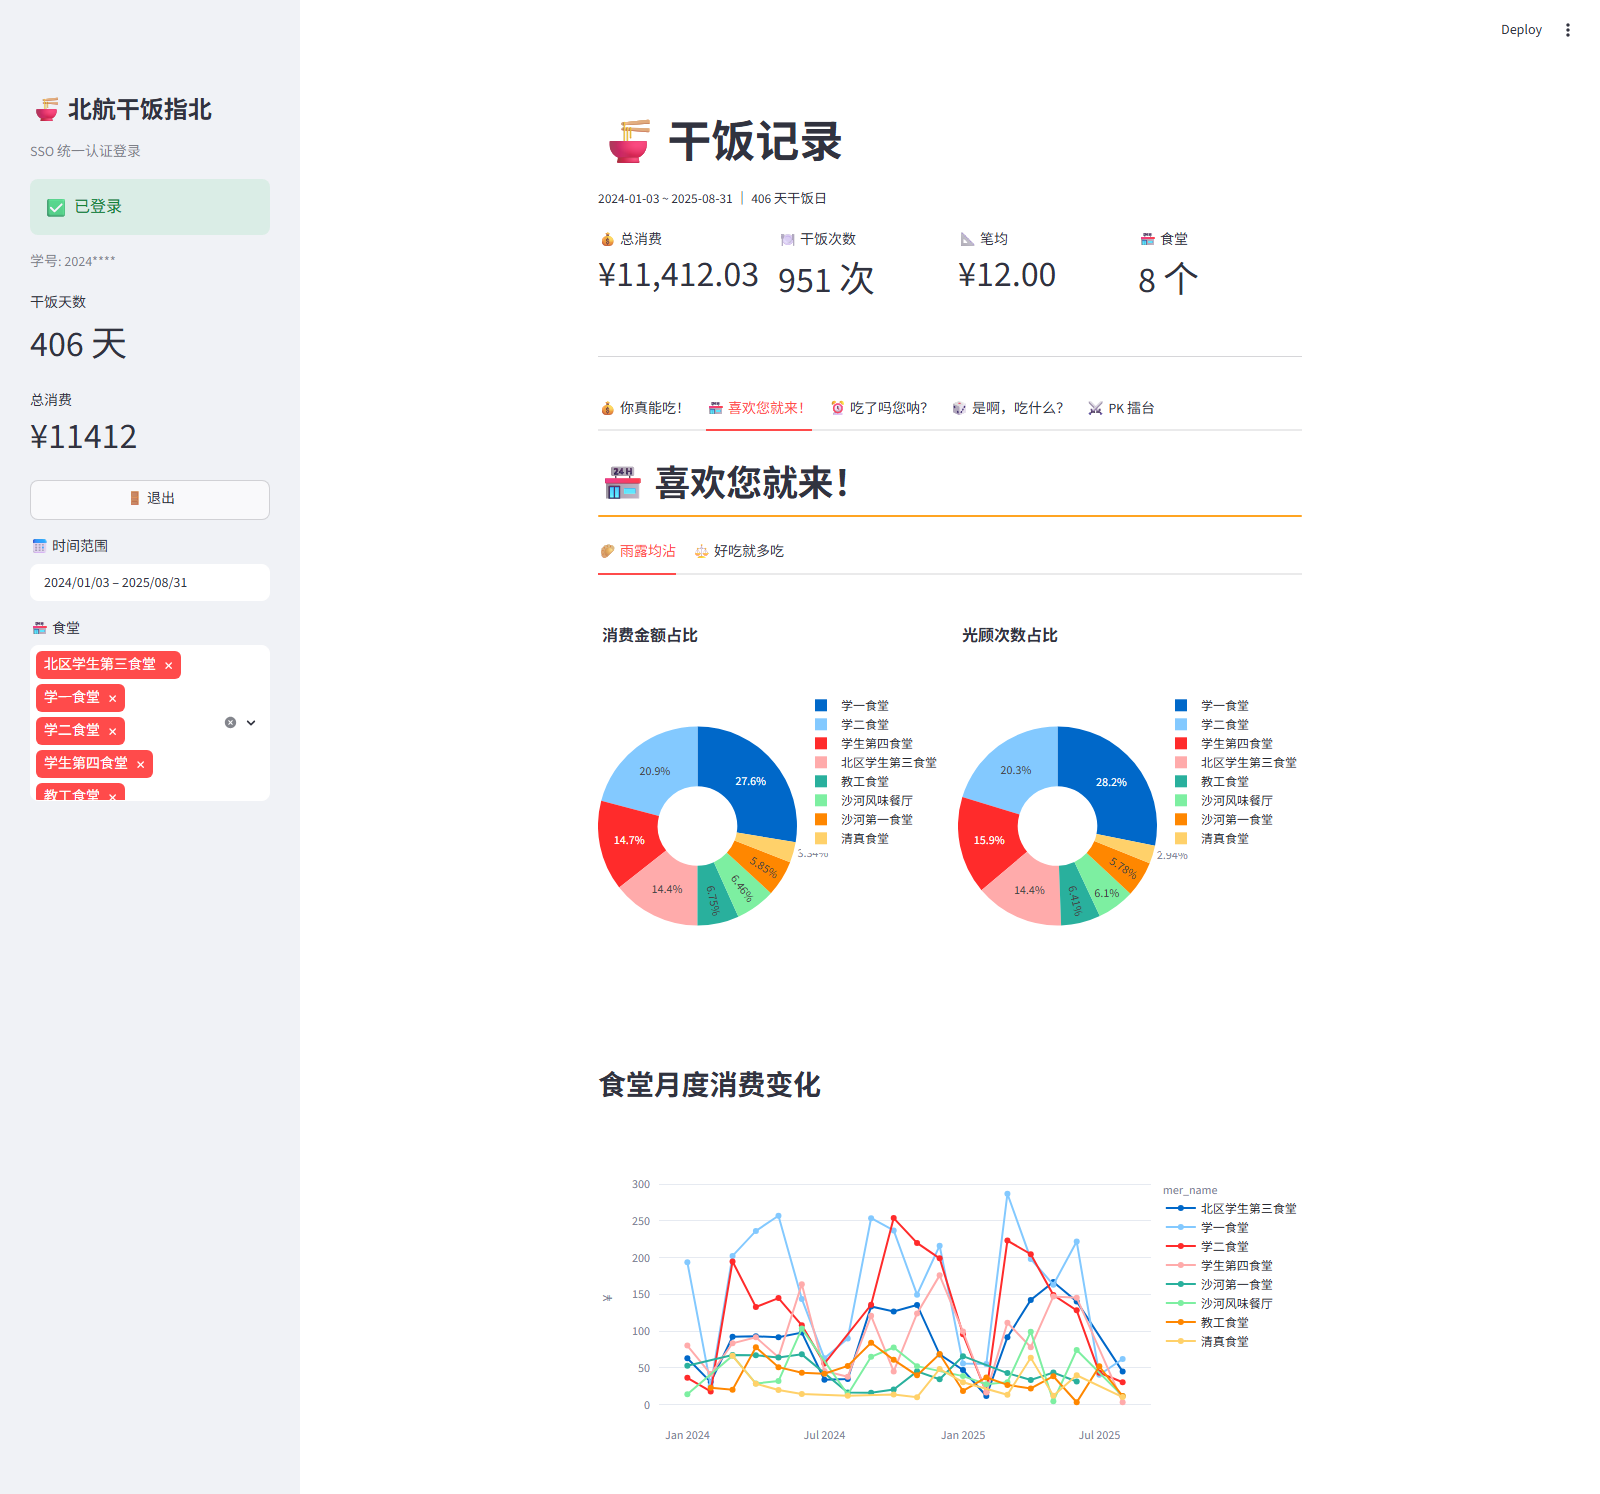
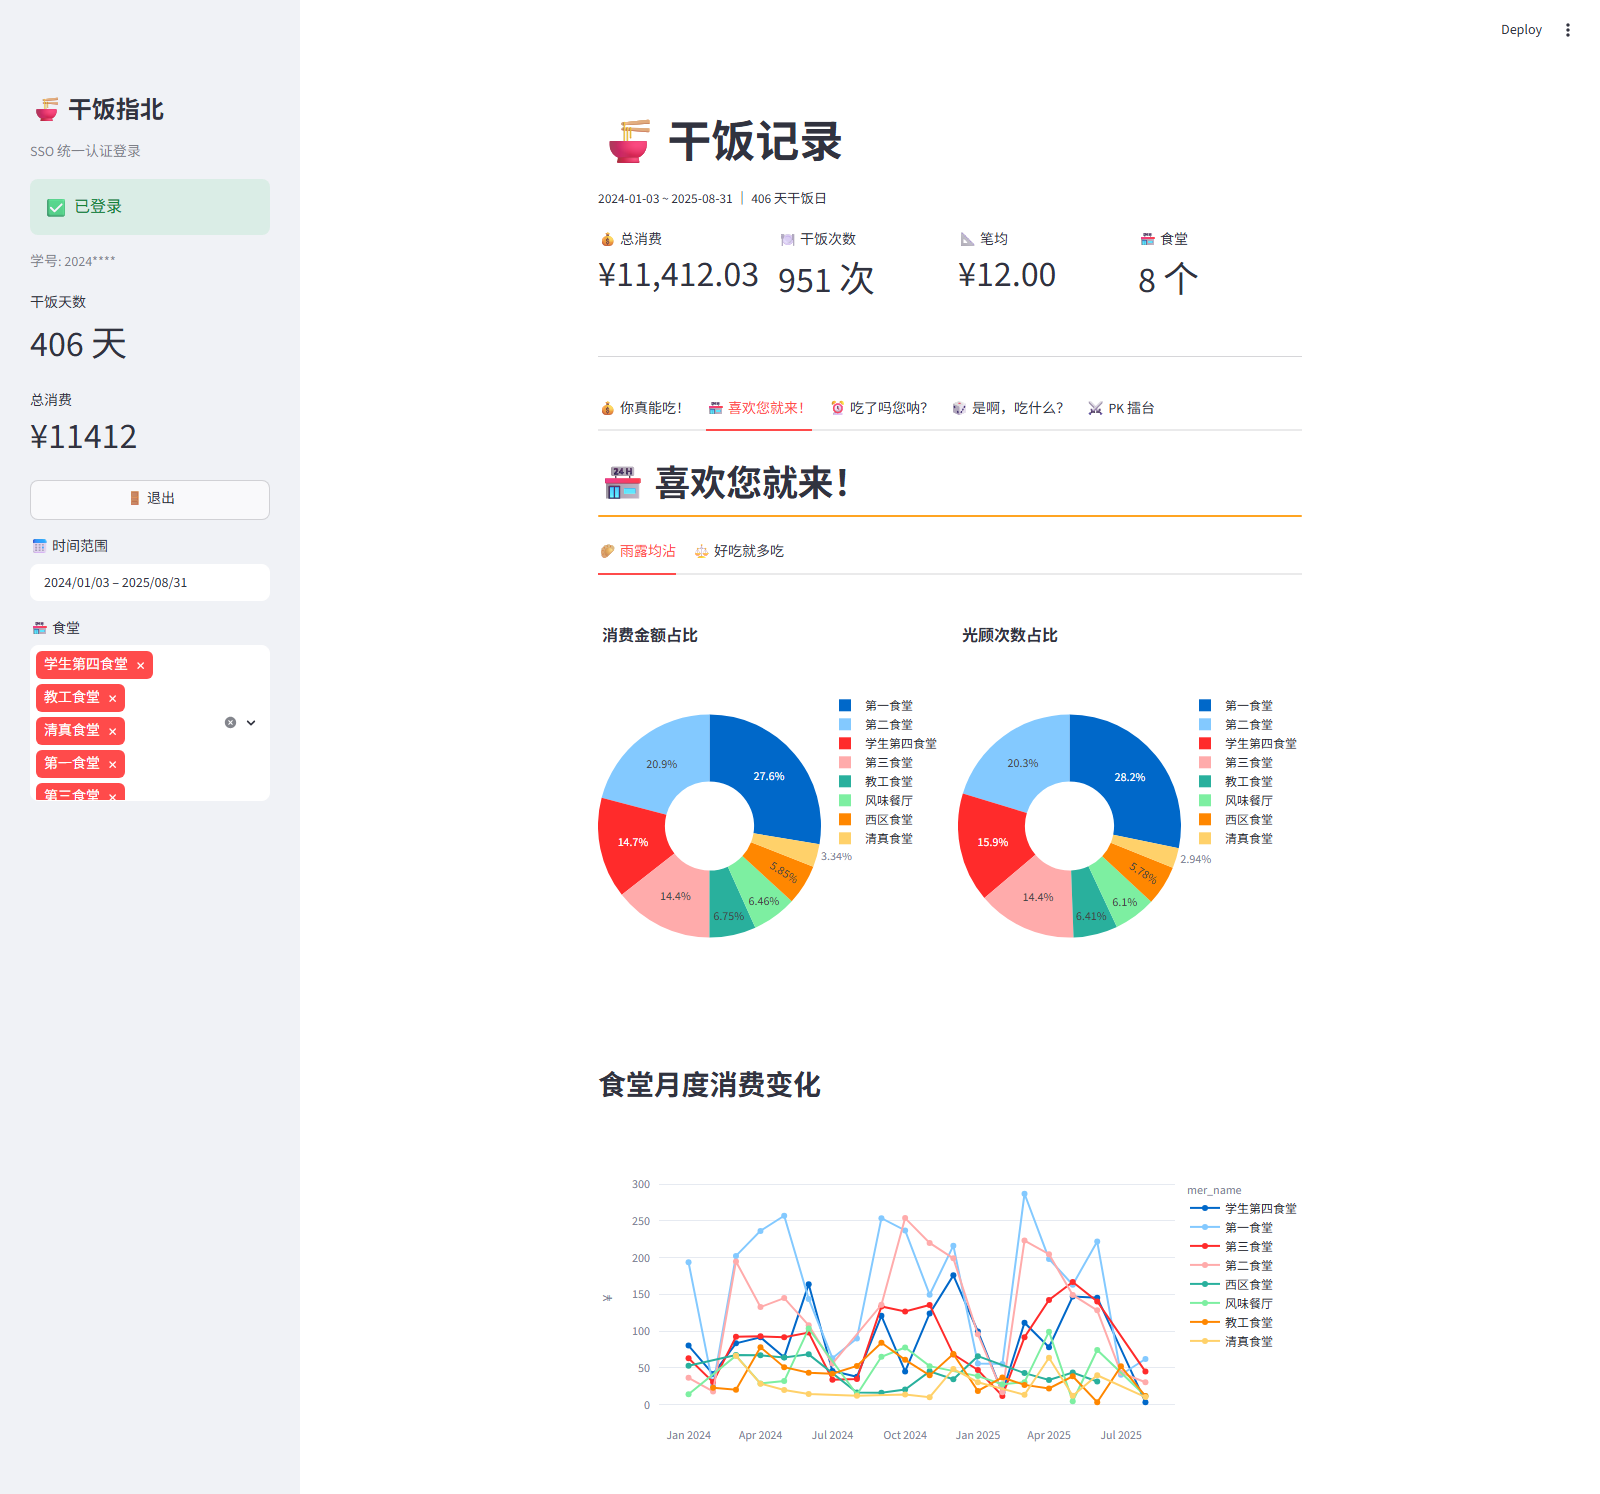
refactor: 更名 Dining Trace 并去除校名，补充首次使用提示
对外去校名
- 项目对外名称统一为 Dining Trace（干饭指北）
- README / 界面标题 / 页脚 / LICENSE 中的校名全部替换为
  「校园统一认证」「校园卡平台」等中性说法
- sso_login.py 改为通用 CAS 实现：SSO 端点抽到 config.py
  （SSO_BASE / SSO_SERVICE_URL），换学校只改配置不动代码
- 测试与演示数据里的食堂名改为通用的第一~第四食堂 / 风味餐厅等

首次使用提示（同学最容易误判为「程序坏了」的两点）
- README 新增「给第一次使用的你」表格：首次运行会自动 pip install
  数十 MB（1~3 分钟）、首次登录要翻页拉全量历史（可能超过 1 分钟）
- start.bat 重写：依赖检测、安装耗时提示、失败自动换清华源重试、
  运行阶段打印两条慢速提示；全 ASCII 文案避免 .bat 中文乱码
- app.py 登录页与侧边栏加入「首次登录可能需要 1 分钟以上」提示
- README 常见问题补充「卡在 Downloading」「登录转圈」两条

截图
- 4 张截图用合成数据重新渲染（新标题、通用食堂名、学号 2024****）
- 隐私校验通过：页面中 5 位以上数字串只有 11412 / 14267 两个金额

测试
- tools/smoke_test.py 与 tools/app_smoke_test.py 全绿（4 种状态）

diff --git a/app.py b/app.py
@@ -1,5 +1,5 @@
 """
-北航食堂消费记录 - 可视化面板
+Dining Trace 干饭指北 - 校园卡食堂消费可视化面板
 启动: streamlit run app.py
 """
 
@@ -13,7 +13,7 @@ from datetime import datetime, date
 from scraper.database import get_connection, init_db, get_statistics
 
 # ── 页面配置 ──
-st.set_page_config(page_title="北航干饭指北", page_icon="🍜", layout="wide")
+st.set_page_config(page_title="Dining Trace 干饭指北", page_icon="🍜", layout="wide")
 
 
 # ── Session 状态 ──
@@ -82,7 +82,7 @@ def sso_login(stu_no, password):
 
 # ── 侧边栏：登录 ──
 def sidebar_login():
-    st.sidebar.title("🍜 北航干饭指北")
+    st.sidebar.title("🍜 干饭指北")
     st.sidebar.caption("SSO 统一认证登录")
 
     if not st.session_state.logged_in:
@@ -91,6 +91,7 @@ def sidebar_login():
         stu = st.sidebar.text_input("学号", key="login_stu", placeholder="请输入学号")
         pwd = st.sidebar.text_input("密码", type="password", key="login_pwd",
                                      placeholder="统一认证密码")
+        st.sidebar.caption("⏳ 首次登录需拉取全部历史记录，可能需要 1 分钟以上")
         if st.sidebar.button("🚀 登录", type="primary", use_container_width=True):
             if stu and pwd:
                 res = sso_login(stu, pwd)
@@ -440,10 +441,10 @@ def main():
     logged_in, df = sidebar_login()
 
     if not logged_in or df is None:
-        st.title("🍜 北航干饭指北")
+        st.title("🍜 干饭指北")
         st.markdown("""
         ### 👈 请在左侧登录
-        使用 **北航统一认证** 学号和密码登录，即可查看你的食堂消费数据。
+        使用**校园统一认证**的学号和密码登录，即可查看你的食堂消费数据。
 
         ---
         **功能一览:**
@@ -452,6 +453,11 @@ def main():
         - ⏰ **吃了吗您呐？** — 用餐时间规律
         - 🎲 **是啊，吃什么？** — 随机食堂抽签
         - ⚔ **PK 擂台** — 和室友比一比谁是干饭王
+
+        ---
+        ⏳ **第一次登录会比较慢**：要完成统一认证并翻页拉取你的全部历史流水，
+        通常几十秒，高峰时段**可能需要 1 分钟以上**，请耐心等待，不要反复点击登录。
+        之后每次只需增量补充新记录，会快很多。
         """)
         return
 
@@ -494,7 +500,7 @@ def main():
         section_pk(df_f, st.session_state.stu_no)
 
     st.divider()
-    st.caption(f"🍜 北航干饭指北 · 数据来源 pass.cc-pay.cn · {datetime.now():%Y-%m-%d %H:%M}")
+    st.caption(f"🍜 干饭指北 · 数据来源 pass.cc-pay.cn · {datetime.now():%Y-%m-%d %H:%M}")
 
 
 if __name__ == "__main__":

diff --git a/scraper/sso_login.py b/scraper/sso_login.py
@@ -1,14 +1,17 @@
-"""北航统一认证 SSO 自动登录
+"""校园统一认证（CAS）SSO 自动登录
+
+本模块实现的是通用的 CAS 协议流程，登录地址在 scraper/config.py 里配置
+（默认已填好一个可用的校园认证端点；换学校只需改配置，不用动本文件）。
 
 流程:
-  1. GET  sso.buaa.edu.cn/login?service=...  获取 execution 参数
-  2. POST sso.buaa.edu.cn/login              提交学号密码
-  3. 302 跟随重定向链，获取 pass.cc-pay.cn 的 Cookie
+  1. GET  {SSO_BASE}/login?service=...  获取 execution 参数
+  2. POST {SSO_BASE}/login              提交学号密码
+  3. 302 跟随重定向链，获取校园卡平台的 Cookie
 
 注意:
-  cc-pay / 校方网关目前带有风控(验证页)机制，登录链偶发在到达
-  cc-pay 之前就被一个 200 验证页截断。因此登录会自动重试几次，
-  只有拿到 cc-pay 域 Cookie(connect.sid) 才算成功。
+  校园卡平台 / 校方网关目前带有风控(验证页)机制，登录链偶发在到达
+  校园卡平台之前就被一个 200 验证页截断。因此登录会自动重试几次，
+  只有拿到校园卡平台域 Cookie(connect.sid) 才算成功。
 """
 
 import random
@@ -18,10 +21,11 @@ import os
 import time
 from urllib.parse import urljoin
 
-SSO_BASE = "https://sso.buaa.edu.cn"
-SERVICE_URL = "https://pass.cc-pay.cn/login"
+from .config import SSO_BASE, SSO_SERVICE_URL
+
+SERVICE_URL = SSO_SERVICE_URL
 LOGIN_URL = f"{SSO_BASE}/login?service={requests.utils.quote(SERVICE_URL, safe='')}"
-# 能证明已登录 cc-pay 的 Cookie 名（任意一个即可）
+# 能证明已登录校园卡平台的 Cookie 名（任意一个即可）
 CCPAY_SESSION_COOKIE = "connect.sid"
 
 # 登录尝试次数与间隔（随机化，避免触发风控）
@@ -43,7 +47,7 @@ def _print(msg):
 
 
 class SSOLogin:
-    """北航统一认证 SSO 登录器"""
+    """校园统一认证（CAS）SSO 登录器"""
 
     #: 明确失败原因（用户名密码错误 / 频繁 / 验证码），不值得自动重试
     FATAL_ERR_KEYWORDS = ("密码", "用户名", "频繁", "验证码", "锁定", "冻结", "风险")

diff --git a/scraper/config.py b/scraper/config.py
@@ -1,9 +1,19 @@
-"""配置信息（无个人信息，可公开）"""
+"""配置信息（无个人信息，可公开）
 
-# API 配置
+换学校/换平台时，改这里就够了，不需要动其他文件。
+"""
+
+# ── 校园卡平台 API ──
 API_BASE = "https://mall.cc-pay.cn/api"
 TRADES_URL = f"{API_BASE}/campus_card/trades"
 USER_URL = f"{API_BASE}/user"
+
+# ── 统一认证（CAS）SSO ──
+# 学校统一认证的基地址；本仓库默认填的是一所高校的可用端点，
+# 若你的学校使用其他地址，改成自己的即可。
+SSO_BASE = "https://sso.buaa.edu.cn"
+# 认证成功后要跳转到的业务地址（校园卡平台登录入口）
+SSO_SERVICE_URL = "https://pass.cc-pay.cn/login"
 
 # 请求间隔（秒）
 REQUEST_INTERVAL = 0.5

diff --git a/tools/app_smoke_test.py b/tools/app_smoke_test.py
@@ -122,8 +122,8 @@ def build_demo_df(stu_no, seed=1):
     import random
     import pandas as pd
     random.seed(seed)
-    canteens = ["学一食堂", "北区学生第三食堂", "学生第四食堂", "教工食堂", "沙河第一食堂",
-                "清真食堂", "沙河风味餐厅", "学二食堂"]
+    canteens = ["第一食堂", "第二食堂", "第三食堂", "第四食堂", "教工食堂",
+                "清真食堂", "风味餐厅", "西区食堂"]
     rows = []
     day = datetime(2025, 3, 1, 0, 0, 0)
     for i in range(130):

diff --git a/tools/smoke_test.py b/tools/smoke_test.py
@@ -25,7 +25,7 @@ def make_raw_df(n=400):
     """构造与数据库读出来等价的原始 DataFrame（date 已 parse_dates）"""
     import random
     random.seed(7)
-    canteens = ["学一食堂", "北区学生第三食堂", "学生第四食堂", "教工食堂", "沙河第一食堂"]
+    canteens = ["第一食堂", "第二食堂", "第三食堂", "教工食堂", "西区食堂"]
     rows = []
     base = datetime(2025, 3, 1)
     for i in range(n):

diff --git a/scraper/cli.py b/scraper/cli.py
@@ -15,7 +15,7 @@ def _print(msg):
 
 def main():
     import argparse
-    parser = argparse.ArgumentParser(description="北航食堂消费记录爬虫")
+    parser = argparse.ArgumentParser(description="校园卡食堂消费记录爬虫")
     sub = parser.add_subparsers(dest="command")
 
     # sso

diff --git a/fetch_data.py b/fetch_data.py
@@ -1,5 +1,5 @@
 """
-北航校园卡消费记录 - 一键抓取
+校园卡消费记录 - 一键抓取（Dining Trace / 干饭指北）
 
 用法:
   python fetch_data.py --stu-no 学号     SSO 自动登录拉取数据

diff --git a/scraper/fetcher.py b/scraper/fetcher.py
@@ -1,4 +1,4 @@
-"""北航校园卡消费记录爬虫"""
+"""校园卡消费记录爬虫"""
 
 import random
 import requests

diff --git a/scraper/__init__.py b/scraper/__init__.py
@@ -1,1 +1,1 @@
-# 北航食堂消费记录爬虫
+# 校园卡食堂消费记录爬虫（Dining Trace / 干饭指北）
